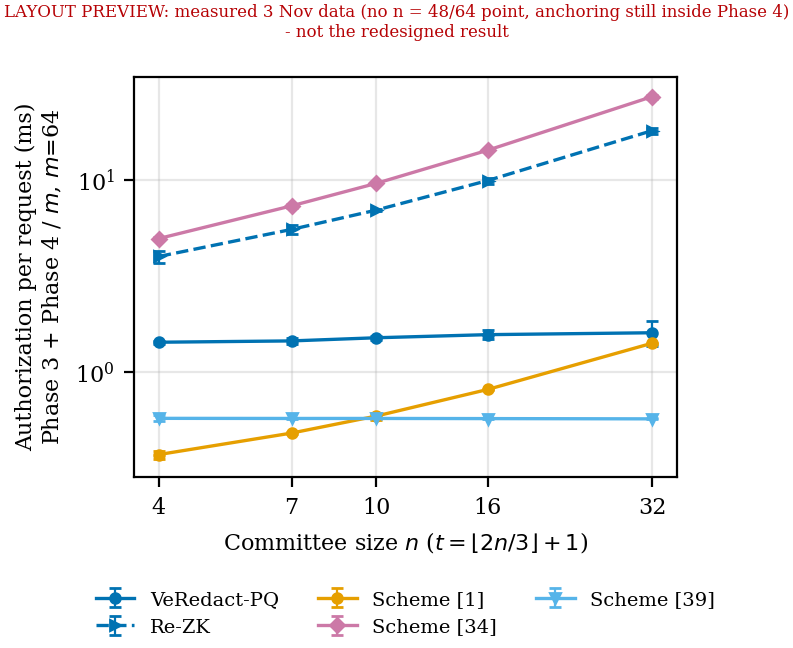
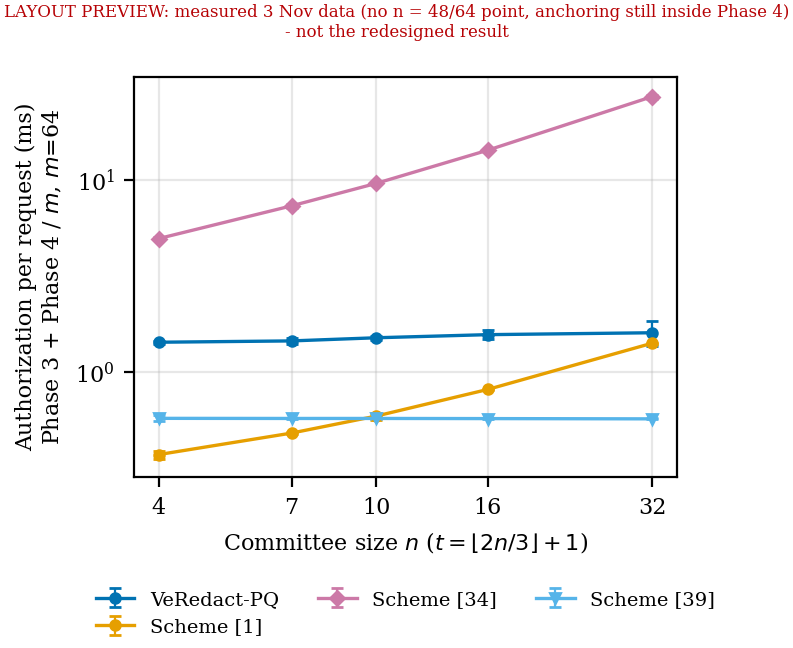
#6 Exp. 2: drop the Re-ZK variant from the figure, the text and the config
Re-ZK is an ablation of our own scheme (the committee re-verifying each PQZK proof),
so a 14-74x win over it tells a reader nothing. The redesigned panel is VeRedact-PQ
plus the three baselines; configs/experiments/exp02_authorization_latency.yaml drops
veredact-re-zk from systems, and Other/docs/experiments.md drops it from the Exp. 2
row (VeRedactPQ.VARIANTS keeps the implementation).

What the 3 Nov run measured is kept in step 1 as one paragraph, with issue #6's
question 4 answered there (the extra does grow as m.t.T_ZV: 154 -> 1,055 ms measured
against a 131 -> 958 ms model). Rerun cost falls from ~3.1 h to ~USD 2.5 for 3 runs
because Re-ZK was 982 s of each 3,670 s run.

diff --git a/Other/analysis/exp2_step1.py b/Other/analysis/exp2_step1.py
@@ -12,7 +12,7 @@ import pandas as pd
 
 ROOT = pathlib.Path(__file__).resolve().parents[2] / "Benchmark/results"
 RES = ROOT / "exp02_authorization_latency"
-SYSTEMS = ["veredact", "veredact-re-zk", "S1", "S34", "S99"]
+SYSTEMS = ["veredact", "S1", "S34", "S99"]  # Re-ZK dropped from Exp. 2 (author, 7 Nov): see suggest_change/exp2
 N0 = 7  # configs/methods/veredact.yaml committee_n (panel (a) is drawn at this n)
 M0 = 64  # reference_batch (panel (b) is drawn at this m)
 BREAKDOWN = ["phase4_attest_ms", "phase4_fresh_ms", "phase4_commit_ms", "phase4_committee_ms"]
@@ -126,16 +126,14 @@ def table_c_fixed_vs_marginal():
     return pd.DataFrame(rows)
 
 
-def table_d_per_set(T):
-    """D. Panel (b) at m=64: one authorized set vs n, and Re-ZK against m t T_ZV."""
+def table_d_per_set():
+    """D. Panel (b) at m=64: one authorized set vs n, VeRedact-PQ's committee term against t(T_S+T_V)."""
     out = {}
     for s in SYSTEMS:
         for p, v in points(s):
             if int(float(p["batch_size"])) == M0:
                 out.setdefault(int(float(p["committee_n"])), {})[s] = med(v, "batch_total_ms")
     d = pd.DataFrame(out).T.sort_index()[SYSTEMS]
-    d["rezk_model"] = [M0 * t_of(n) * T["T_ZV"] for n in d.index]
-    d["rezk_measured_minus_VR"] = d["veredact-re-zk"] - d.veredact
     d["S1_model_t_x_2_ECDSA"] = [M0 * t_of(n) * 2 * 0.0266 for n in d.index]  # S1's T_V^c (Exp. 0)
     d.index.name = "n"
     return d.round(2)
@@ -159,5 +157,5 @@ if __name__ == "__main__":
     print("A2. Plotted (Phase 4 / m) vs complete (Phase 3 + Phase 4 / m)\n", both.to_string(), "\n")
     print(f"B. Phase 4 per set at n={N0} vs the Exp. 0 cost model\n", table_b_phase4_model(T).to_string(), "\n")
     print("C. Phase 4 fitted as fixed + marginal x m\n", table_c_fixed_vs_marginal().to_string(index=False), "\n")
-    print(f"D. One set of m={M0} vs n (Fig. 4(b))\n", table_d_per_set(T).to_string(), "\n")
+    print(f"D. One set of m={M0} vs n (Fig. 4(b))\n", table_d_per_set().to_string(), "\n")
     print("E. Round sizes CORA produced in Exp. 1 (run 1)\n", table_e_operating_point().to_string())

diff --git a/Other/analysis/exp2_layout_preview.py b/Other/analysis/exp2_layout_preview.py
@@ -17,7 +17,7 @@ from veredact_bench.reporting import style  # noqa: E402
 
 RES = ROOT / "Benchmark/results/exp02_authorization_latency"
 OUT = ROOT / "suggest_change/exp2/exp2_layout_preview.png"
-SYSTEMS = ["veredact", "veredact-re-zk", "S1", "S34", "S99"]
+SYSTEMS = ["veredact", "S1", "S34", "S99"]  # Re-ZK dropped from Exp. 2 (author, 7 Nov)
 M0 = 64  # the reference round size (Exp. 1 measured median rounds of 53-161 requests)
 
 

diff --git a/suggest_change/exp2/README.md b/suggest_change/exp2/README.md
@@ -26,7 +26,6 @@ T_H = 0.0013 ms (SHA3-256, 64 B).
 | **(a) on the complete cost (Phase 3 + Phase 4/m)** | **lose 3.0× at every m ≥ 8** (1.44 vs 0.48 ms), **6.7× at m = 1** | Fig. 4 plots Phase 4 only. Phase 3 (the VPS: PQZK verify + requester signature + α_i + receipt) is 1.28 ms per request and never amortizes — 89 % of our complete cost at m = 256 | PQ cost (T_ZV = 0.68 ms is 53 % of Phase 3 and 1.4× Scheme [1]'s whole authorization) | table A2; `auth_complete_per_request_ms` in `metrics.json`; `veredact.py:132-196` |
 | (a) Scheme [1] flat at ~0.49 ms | lose (see above) | its authorization is t × (hash-to-prime + accumulator membership + 2 ECDSA verifies) per request: no batch protocol exists in the paper, so m requests cost m × the same thing | baseline does less (no PQ, no policy predicate, no freshness, no batch commitment) | `s01_improved_dch/adapter.py:138-158`; `Other/docs/baselines/S1-improved-dch.md` Exp. 2 row; model t·m·2·T_V^c = 17.0 ms vs 34.0 ms measured at m = 64, n = 7 (table D) |
 | (a) Scheme [34] flat at ~7.36 ms | **win 46×** at m = 256 | one MA-ABE `Info_Trap` decryption per request: T_Pol = 7.31 ms (Exp. 0), the whole curve | — | `Other/docs/baselines/S34-rebs.md` boundaries; Exp. 0 `T_Pol` |
-| (b) Re-ZK vs VeRedact-PQ | **win 14–74×** | Re-ZK re-verifies each PQZK proof in every participating member: the extra is m·t·T_ZV (model 131 → 958 ms, measured extra 154 → 1055 ms over n = 4 → 32) | — | table D, columns `rezk_model` / `rezk_measured_minus_VR` |
 | (b) VeRedact-PQ almost flat in n | **win 2.4–122×** | only `committee_ms` depends on n (0.41 → 2.93 ms, model t(T_S+T_V) = 0.31 → 2.27 ms); the m-proportional part (≈ 9.5 ms at m = 64) does not | — | tables B and C |
 | **Cost model gap** | — | the four Phase-4 timers explain 24 % of Phase 4 at m = 1 and 95 % at m = 256; the remainder (1.26–2.04 ms, flat in m) is the anchoring transaction. Inside the timers, `attest` costs 4.1× its model (0.127 vs 0.031 ms/request) — one ML-DSA verify plus four SHA3 calls, **one of them over the whole STARK proof** (`c.H(ev["proof"])`) | unfair harness (rule 6) + implementation | table B; `veredact.py:231-241` |
 
@@ -51,49 +50,64 @@ Fig. 4 compares our Phase 4 against the baselines' *whole* authorization. Scheme
 out. Stated as the complete cost the figure reverses: we are 3.0× slower than Scheme [1] and 2.8× slower than
 Scheme [39] at every batch size. Step 2 plots the complete cost.
 
+### Dropped from Exp. 2: the Re-ZK variant (author, 7 Nov)
+
+Re-ZK is removed from the figure, the text and `configs/experiments/exp02_authorization_latency.yaml`. What
+the 3 Nov run measured, recorded here once so the removal is a decision and not a gap: Re-ZK's extra over
+VeRedact-PQ at m = 64 is 154 ms (n = 4) → 1,055 ms (n = 32), against the model m·t·T_ZV = 131 → 958 ms, so
+**yes, it grows as m·t·T_ZV** (issue #6 step 1, question 4), the 10 % excess being the Python loop. It is a
+strawman: it is our own protocol with the committee re-doing work the VPS already did, so a 14–74× win over
+it says nothing a reader needs. Dropping it also removes 982 s of the 3,670 s each Exp. 2 run took.
+
 ## Step 2: redesigned Exp. 2
 
 ```
 What changes:     metric (the complete authorization cost that metrics.json already records), axis (committee
-                  size n becomes the one axis, extended to 48 and 64), and one measurement fix (rule 6).
+                  size n becomes the one axis, extended to 48 and 64), the Re-ZK variant is dropped, and one
+                  measurement fix (rule 6).
 The one graph:    x = committee size n in {4, 7, 10, 16, 32, 48, 64}, log; y = authorization per request (ms),
-                  log = Phase 3 + Phase 4/m at the reference round m = 64; five lines: VeRedact-PQ, Re-ZK,
+                  log = Phase 3 + Phase 4/m at the reference round m = 64; four lines: VeRedact-PQ,
                   Scheme [1] and Scheme [34] (dashed, "no batching"), Scheme [39].
                   Layout preview from measured 3 Nov data: suggest_change/exp2/exp2_layout_preview.png
 Expected figure:  VeRedact-PQ nearly flat: 1.34 ms (n=4) -> 1.40 ms (n=32) -> ~1.43 ms (n=64), i.e. today's
                   1.45-1.51 ms minus the anchoring (1.3 ms / 64 = 0.02) and minus fix 4 (0.09); predictions
                   beyond n=32 extrapolate the measured linear-in-t committee term.
                   Scheme [1] rises as t(n): 0.42 (n=4) -> 1.46 (n=32) measured -> ~2.6 ms (n=64), crossing
-                  VeRedact-PQ at n ~ 30; Scheme [34] 5.0 -> 27.4 -> ~52 ms; Re-ZK 3.9 -> 17.0 -> ~32 ms;
-                  Scheme [39] flat at 0.51 ms (no committee, so no n dependence).
+                  VeRedact-PQ at n ~ 30; Scheme [34] 5.0 -> 27.4 -> ~52 ms; Scheme [39] flat at 0.51 ms
+                  (no committee, so no n dependence).
 Why it's fair:    [x] same hardware for all   - one m7i.4xlarge per run, every system (README Hardware)
                   [x] baselines per their papers - [1] and [34] define no batch protocol, so a set of m is m
                       authorizations and their lines stay dashed (S1-improved-dch.md, S34-rebs.md); [39] keeps
                       its own batch protocol; committee members are timed serially for every threshold scheme
-                  [x] no point/seed dropped  - the m axis keeps all six sizes, it moves to a table
+                  [x] no point/seed dropped  - the m axis keeps all six sizes, it moves to a table. Re-ZK is
+                      a variant of our OWN scheme, not a baseline or a point of one; what it measured on
+                      3 Nov is recorded in step 1 above with the reason for dropping it
                   [x] the case where we don't win is still shown - Scheme [39] is below us at every n and
                       Scheme [1] below us until n ~ 32, both inside the panel
-Text changes:     Fig. 4 caption (one panel, complete cost); the Exp. 2 paragraph that cites panels (a)/(b)
-                  becomes one paragraph on the n axis plus the amortization table below; Table I note that
-                  Scheme [39] authenticates faster because it has no committee, no policy predicate and no
-                  freshness check; the measurement-limits list gains "anchoring is ledger time, reported
-                  separately" (rule 6).
-Cost:             code ~1 day (4 small changes, below); rerun Exp. 2 only, 3 runs. Measured 3 Nov: 3,670 s per
-                  run; two extra committee sizes -> ~1.4x -> ~4.3 h of one m7i.4xlarge (us-east-2, USD 0.806/h)
-                  = ~USD 3.5, ~USD 5.2 with the usual 1.5x idle cap. Needs jaoguya's yes on this issue.
+Text changes:     Fig. 4 caption (one panel, complete cost, no Re-ZK); the Exp. 2 paragraph that cites panels
+                  (a)/(b) becomes one paragraph on the n axis plus the amortization table below; every Re-ZK
+                  sentence goes (manuscript Exp. 2, and the Exp. 2 row of Other/docs/experiments.md 3);
+                  Table I note that Scheme [39] authenticates faster because it has no committee, no policy
+                  predicate and no freshness check; the measurement-limits list gains "anchoring is ledger
+                  time, reported separately" (rule 6).
+Cost:             code ~1 day (5 small changes, below); rerun Exp. 2 only, 3 runs. Measured 3 Nov: 3,670 s per
+                  run, of which Re-ZK was 982 s -> 2,688 s without it; two extra committee sizes -> ~1.4x ->
+                  ~3.1 h of one m7i.4xlarge (us-east-2, USD 0.806/h) = ~USD 2.5, ~USD 3.8 with the usual 1.5x
+                  idle cap. Needs jaoguya's yes on this issue.
                   Risk: the SIS-PQCH DKG is untimed setup but ~5 min at n = 32 and superlinear; n = 64 may add
                   20-30 min per run. It is cached per (seed, n, t) in .cache/pqch_dkg/, so it is paid once.
 ```
 
-### The four code changes
+### The code changes
 
 | # | Where | Change | Effect |
 |---|---|---|---|
 | 1 | `reporting/figures.py:205-240` | one panel; plot `auth_complete_per_request_ms` at m = `reference_batch`; the m axis becomes a table | the loss becomes visible |
-| 2 | `configs/experiments/exp02_authorization_latency.yaml` | `committee_sizes: [4, 7, 10, 16, 32, 48, 64]` | shows the crossing with Scheme [1] |
+| 2 | `configs/experiments/exp02_authorization_latency.yaml` | `committee_sizes: [4, 7, 10, 16, 32, 48, 64]`; `systems:` drops `veredact-re-zk` | shows the crossing with Scheme [1]; removes the strawman and 982 s per run |
 | 3 | `veredact.py:290-300` | move `L.anchor.submit("abrrr_authorization", …)` out of `authorize()`: return the Future to `VeRedactScheme.authorize_batch`, which records it as ledger time | removes 1.26–2.04 ms of secp256k1 + ABI work from a crypto timer (rule 6). Helps us; do it anyway |
 | 4 | `veredact.py:231-241` | drop `c.H(ev["proof"])` from the Phase 4 attestation check (see step 3, O2) | −0.09 ms per request |
 | 5 | `s34_rebs/adapter.py`, `s99_leta/adapter.py` | fill in `auth_cost()` (both report all-zero counters today) | rule 7: capabilities and costs beside every number |
+| 6 | `Other/docs/experiments.md` §2 and §3 | drop `re-zk` from the variant list and from the Exp. 2 row | the docs stop describing a variant the experiment no longer runs. `VeRedactPQ.VARIANTS` keeps the implementation, so the variant can be re-enabled by config alone |
 
 ### Numbers moved from the graph to the text
 
